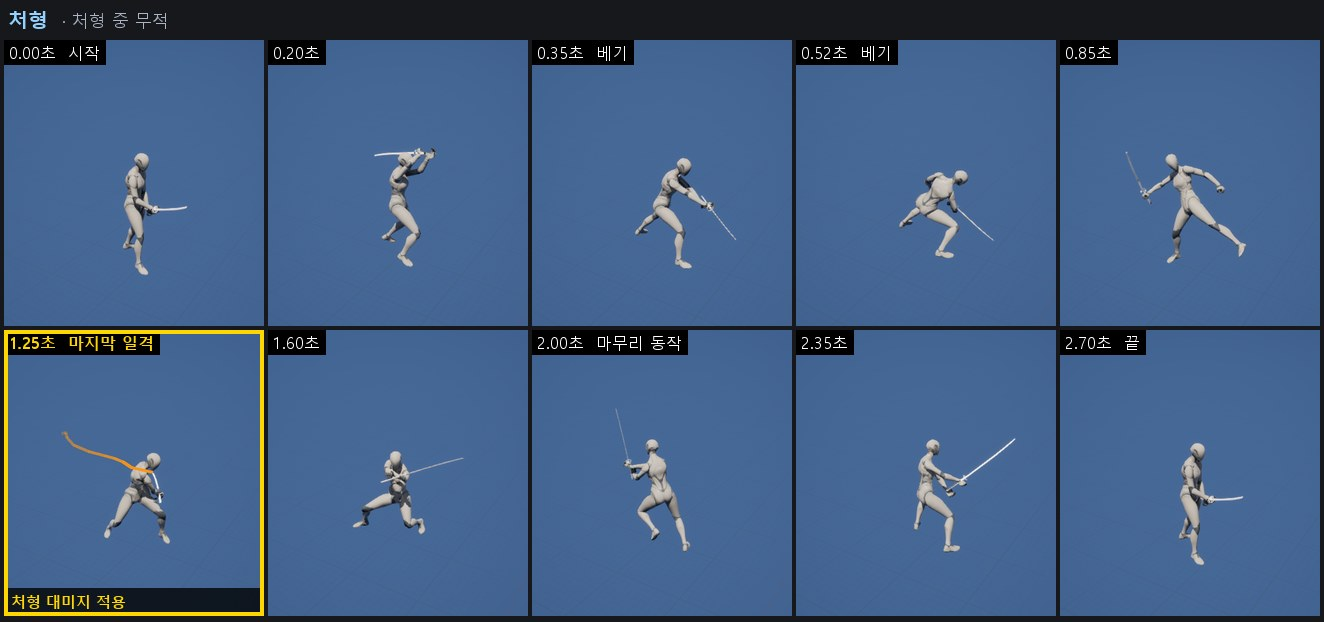
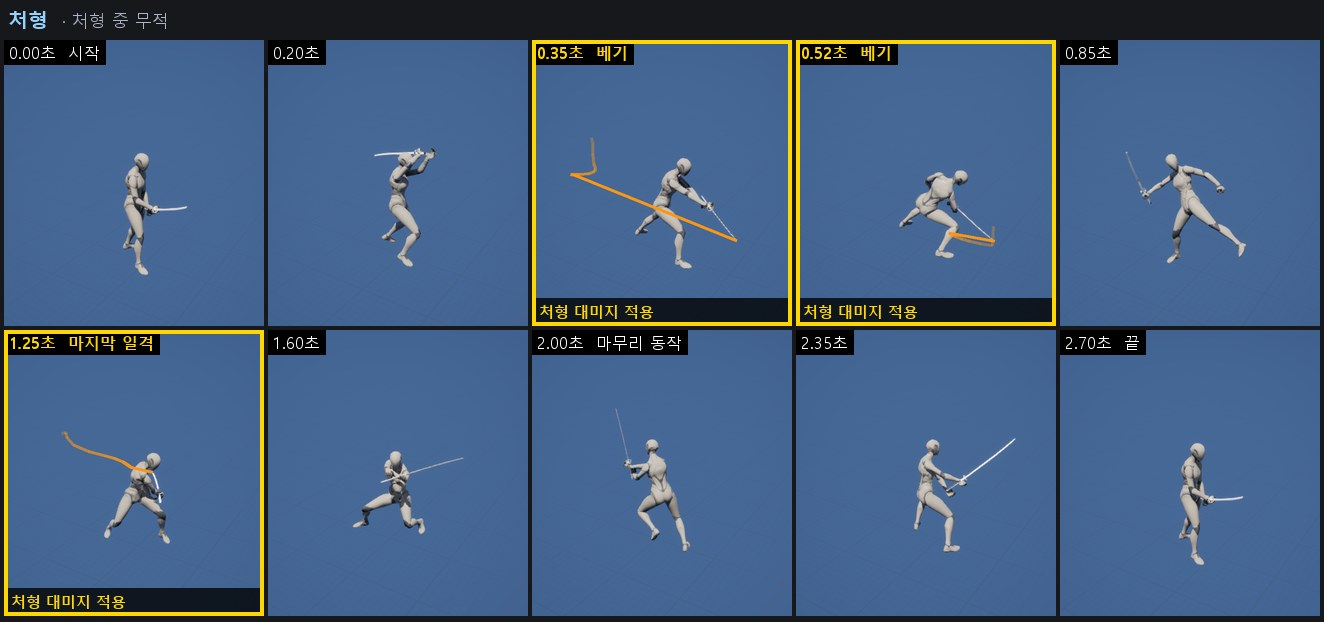
폴리싱 21: 처형 대미지를 타격마다 적용 (플레이어 사양 '처형', 카메라 '상황별 단계')
- 기획서
  - 플레이어 사양 '처형': 대미지를 마지막 일격에 몰아 넣지 않고 베기 2번(각 3.0)과 마지막
    일격(9.0)에서 각각 적용합니다. 배율 합계 15.0은 그대로입니다.
  - 카메라 '상황별 단계': 처형의 베기는 작음, 마지막 일격은 그대로 큼.
  - 처형·처형 피격 그림: 베기 칸도 타격 칸으로 표시했습니다. 처형 피격에는 두 번째 베기(0.52초)
    칸을 넣고 이름 없는 1.90초 칸을 뺐습니다. 처형 사망 줄의 'HP 0 이하'는 줄 제목 옆 설명으로
    옮겼습니다.
- 구현
  - AM_Player_Execute: 베기 두 번(0.35·0.52초)에 타격 이벤트 노티파이를 더해, 마지막 일격
    (1.25초)까지 세 번 이벤트가 옵니다.
  - 처형 어빌리티: 타격 이벤트마다 처형 데이터의 다음 타를 적용합니다(대미지 숫자, 피격 이펙트,
    셰이크). 마지막 타에서 후딜을 시작합니다. 앞 타격에서 보스가 죽으면 이후 타격은 대미지 없이
    지나갑니다.
  - DA_Player.Execution: 3.0 / 3.0 / 9.0. DA_Camera에 ExecutionSlashShake(작음)를 추가했습니다.
  - 구현 계획서: 노티파이로 표시하는 처형 시점을 마지막 일격에서 처형 타격(베기 2번, 마지막 일격)으로
    바꾸고, 처형 대미지는 타격 노티파이마다 처형 대상에게 바로 적용합니다.
- PIE 확인:
  - 일반 처형: 보스 HP가 150 / 150 / 450(합계 750, 이전과 같음) 줄고, 셰이크는 작음 / 작음 /
    큼입니다. 타격 간격은 0.175초·0.73초이고, 후딜은 마지막 일격 뒤에 시작됩니다.
  - HP 100에서 처형: 첫 베기에서 HP 0이 되어 처형 사망 모션 뒤 래그돌이 되고, 후딜은 그대로
    마지막 일격 뒤에 시작됩니다.

diff --git a/Source/Ag/AbilitySystem/Abilities/AgAbility_Execution.cpp b/Source/Ag/AbilitySystem/Abilities/AgAbility_Execution.cpp
@@ -54,7 +54,7 @@ void UAgAbility_Execution::ActivateAbility(const FGameplayAbilitySpecHandle Hand
 		return;
 	}
 	Target = Boss;
-	bBlowLanded = false;
+	StrikeIndex = 0;
 
 	BeginBusy();
 	SetExecuting(true);
@@ -71,9 +71,9 @@ void UAgAbility_Execution::ActivateAbility(const FGameplayAbilitySpecHandle Hand
 	// The player moves to the boss's front, to the gap where the two motions line up. No stop distance applies.
 	Player->StartApproach(Boss, Data->ExecutionDistance, 0.f, 0.f, /*bFaceTarget*/ true, /*bExactGap*/ true);
 
-	UAbilityTask_WaitGameplayEvent* BlowTask = UAbilityTask_WaitGameplayEvent::WaitGameplayEvent(this, AgGameplayTags::Event_ExecutionBlow);
-	BlowTask->EventReceived.AddDynamic(this, &ThisClass::HandleFinalBlow);
-	BlowTask->ReadyForActivation();
+	UAbilityTask_WaitGameplayEvent* StrikeTask = UAbilityTask_WaitGameplayEvent::WaitGameplayEvent(this, AgGameplayTags::Event_ExecutionBlow);
+	StrikeTask->EventReceived.AddDynamic(this, &ThisClass::HandleStrike);
+	StrikeTask->ReadyForActivation();
 
 	UAbilityTask_PlayMontageAndWait* MontageTask = UAbilityTask_PlayMontageAndWait::CreatePlayMontageAndWaitProxy(this, NAME_None, Data->ExecutionMontage);
 	MontageTask->OnCompleted.AddDynamic(this, &ThisClass::HandleMontageFinished);
@@ -99,44 +99,51 @@ void UAgAbility_Execution::SetExecuting(bool bNewExecuting)
 	}
 }
 
-void UAgAbility_Execution::HandleFinalBlow(FGameplayEventData Payload)
+void UAgAbility_Execution::HandleStrike(FGameplayEventData Payload)
 {
 	AAgCharacterBase* Player = GetAgCharacter();
 	AAgBossCharacter* Boss = Target.Get();
 	const UAgPlayerData* Data = GetCharacterData<UAgPlayerData>();
-	if (bBlowLanded || !Player || !Boss || !Data || Boss->IsDead())
+	if (!Player || !Data || !Data->Execution.Hits.IsValidIndex(StrikeIndex))
 	{
 		return;
 	}
-	bBlowLanded = true;
+	const FAgAttackHit& Hit = Data->Execution.Hits[StrikeIndex];
+	++StrikeIndex;
+	const bool bFinalBlow = StrikeIndex == Data->Execution.Hits.Num();
 
-	// The damage lands once on the executed boss, without hitstop.
-	const FAgAttackHit& Hit = Data->Execution.Hits[0];
-	const int32 HPDamage = UAgCombatLibrary::CalculateHPDamage(Player->GetAttributeSet()->GetATK(), Hit.DamageMultiplier, Boss->GetAttributeSet()->GetDEF());
-	UAgCombatLibrary::ApplyStatChange(Player, Boss, -HPDamage, 0.f);
-	Boss->ShowDamageNumber(HPDamage, Boss->GetActorLocation(), Hit.bLargeDamageNumber);
-	FGameplayCueParameters EffectParameters;
-	EffectParameters.Location = Boss->GetActorLocation();
-	Boss->GetAbilitySystemComponent()->ExecuteGameplayCue(AgGameplayTags::GameplayCue_Hit, EffectParameters);
-	if (const UAgCameraData* Camera = UAgCombatLibrary::GetCameraData())
+	// Each strike lands on the executed boss, without hitstop. A boss already killed by an earlier strike takes no more.
+	if (Boss && !Boss->IsDead() && Boss->GetAttributeSet()->GetHP() > 0.f)
 	{
-		UAgCombatLibrary::PlayCameraShake(Player, Camera->ExecutionBlowShake);
-	}
-	UE_LOG(LogAg, Verbose, TEXT("Execution blow: HP -%d (now %.0f)"), HPDamage, Boss->GetAttributeSet()->GetHP());
-	if (Boss->GetAttributeSet()->GetHP() <= 0.f)
-	{
-		FGameplayEventData DeathPayload;
-		DeathPayload.EventTag = AgGameplayTags::Event_Death;
-		DeathPayload.Instigator = Player;
-		DeathPayload.Target = Boss;
-		DeathPayload.InstigatorTags.AddTag(AgGameplayTags::Ability_Action_Execution);
-		UAbilitySystemBlueprintLibrary::SendGameplayEventToActor(Boss, AgGameplayTags::Event_Death, DeathPayload);
+		const int32 HPDamage = UAgCombatLibrary::CalculateHPDamage(Player->GetAttributeSet()->GetATK(), Hit.DamageMultiplier, Boss->GetAttributeSet()->GetDEF());
+		UAgCombatLibrary::ApplyStatChange(Player, Boss, -HPDamage, 0.f);
+		Boss->ShowDamageNumber(HPDamage, Boss->GetActorLocation(), Hit.bLargeDamageNumber);
+		FGameplayCueParameters EffectParameters;
+		EffectParameters.Location = Boss->GetActorLocation();
+		Boss->GetAbilitySystemComponent()->ExecuteGameplayCue(AgGameplayTags::GameplayCue_Hit, EffectParameters);
+		if (const UAgCameraData* Camera = UAgCombatLibrary::GetCameraData())
+		{
+			UAgCombatLibrary::PlayCameraShake(Player, bFinalBlow ? Camera->ExecutionBlowShake : Camera->ExecutionSlashShake);
+		}
+		UE_LOG(LogAg, Verbose, TEXT("Execution strike %d: HP -%d (now %.0f)"), StrikeIndex, HPDamage, Boss->GetAttributeSet()->GetHP());
+		if (Boss->GetAttributeSet()->GetHP() <= 0.f)
+		{
+			FGameplayEventData DeathPayload;
+			DeathPayload.EventTag = AgGameplayTags::Event_Death;
+			DeathPayload.Instigator = Player;
+			DeathPayload.Target = Boss;
+			DeathPayload.InstigatorTags.AddTag(AgGameplayTags::Ability_Action_Execution);
+			UAbilitySystemBlueprintLibrary::SendGameplayEventToActor(Boss, AgGameplayTags::Event_Death, DeathPayload);
+		}
 	}
 
-	// 후딜: after the final blow the player can cancel; the boss's motion plays on either way.
-	Player->StopApproach();
-	SetExecuting(false);
-	EndBusy();
+	if (bFinalBlow)
+	{
+		// 후딜: after the final blow the player can cancel; the boss's motion plays on either way.
+		Player->StopApproach();
+		SetExecuting(false);
+		EndBusy();
+	}
 }
 
 void UAgAbility_Execution::HandleMontageFinished()

diff --git a/Source/Ag/AbilitySystem/Abilities/AgAbility_Execution.h b/Source/Ag/AbilitySystem/Abilities/AgAbility_Execution.h
@@ -12,8 +12,9 @@ class AAgPlayerCharacter;
 /**
  * 처형 (플레이어 사양 '처형'): a finishing move on a groggy boss within the 처형 타겟팅 범위, once per groggy.
  * The boss turns to the player and plays its 처형 피격 motion while the player closes in to the boss's front with
- * Motion Warping. The player is invincible until the execution ends or is cancelled. The final blow applies the damage
- * once, without hitstop, and the recovery (후딜) starts after it.
+ * Motion Warping. The player is invincible until the execution ends or is cancelled. Each strike of the motion (the two
+ * slashes and the final blow, one Execution hit each) applies its damage without hitstop, and the recovery (후딜) starts
+ * after the final blow.
  */
 UCLASS()
 class UAgAbility_Execution : public UAgGameplayAbility
@@ -35,7 +36,7 @@ private:
 	void SetExecuting(bool bNewExecuting);
 
 	UFUNCTION()
-	void HandleFinalBlow(FGameplayEventData Payload);
+	void HandleStrike(FGameplayEventData Payload);
 
 	UFUNCTION()
 	void HandleMontageFinished();
@@ -46,5 +47,7 @@ private:
 	TWeakObjectPtr<AAgBossCharacter> Target;
 	bool bExecuting = false;
 	bool bInvincible = false;
-	bool bBlowLanded = false;
+
+	/** Strikes so far in this execution; the last Execution hit is the final blow. */
+	int32 StrikeIndex = 0;
 };

diff --git a/Source/Ag/Core/AgGameplayTags.cpp b/Source/Ag/Core/AgGameplayTags.cpp
@@ -78,7 +78,7 @@ namespace AgGameplayTags
 	UE_DEFINE_GAMEPLAY_TAG_COMMENT(Event_AttackWindowEnded, "Event.AttackWindowEnded", "판정 구간이 끝남. EventMagnitude는 몇 번째 타인지 (0부터)");
 	UE_DEFINE_GAMEPLAY_TAG_COMMENT(Event_DownGrounded, "Event.DownGrounded", "다운 모션에서 바닥에 쓰러진 순간 (무적 시작)");
 	UE_DEFINE_GAMEPLAY_TAG_COMMENT(Event_RecoveryStarted, "Event.RecoveryStarted", "모션의 후딜이 시작됨 (판정 구간이 없는 행동: 패리 모션)");
-	UE_DEFINE_GAMEPLAY_TAG_COMMENT(Event_ExecutionBlow, "Event.ExecutionBlow", "처형 모션의 마지막 일격 (대미지 적용)");
+	UE_DEFINE_GAMEPLAY_TAG_COMMENT(Event_ExecutionBlow, "Event.ExecutionBlow", "처형 모션의 타격: 베기 2번과 마지막 일격 (대미지 적용)");
 	UE_DEFINE_GAMEPLAY_TAG_COMMENT(Event_Boss_DashStart, "Event.Boss.DashStart", "A3 찌르기 모션에서 몸을 앞으로 내던지는 순간 (돌진 시작)");
 	UE_DEFINE_GAMEPLAY_TAG_COMMENT(Event_Boss_DashHold, "Event.Boss.DashHold", "A3 창을 다 내지른 자세 (돌진이 끝날 때까지 유지)");
 	UE_DEFINE_GAMEPLAY_TAG_COMMENT(Event_Boss_SwordWave, "Event.Boss.SwordWave", "A6 검기 발사 (판정 구간으로 봄)");

diff --git a/Source/Ag/Data/AgCameraData.h b/Source/Ag/Data/AgCameraData.h
@@ -91,6 +91,10 @@ public:
 	UPROPERTY(EditDefaultsOnly, Category = "Camera Shake")
 	EAgCameraShake GuardBreakShake = EAgCameraShake::None;
 
+	/** 상황별 단계: 처형의 베기 */
+	UPROPERTY(EditDefaultsOnly, Category = "Camera Shake")
+	EAgCameraShake ExecutionSlashShake = EAgCameraShake::None;
+
 	/** 상황별 단계: 처형의 마지막 일격 */
 	UPROPERTY(EditDefaultsOnly, Category = "Camera Shake")
 	EAgCameraShake ExecutionBlowShake = EAgCameraShake::None;

diff --git a/Docs/Program/마일스톤1 구현 계획.md b/Docs/Program/마일스톤1 구현 계획.md
@@ -64,7 +64,7 @@
 | 점프 | 점프 시작과 착지는 몽타주로 재생하고, 공중에서는 Airborne을 반복 재생합니다. 이동 입력이 있으면 시작·착지 몽타주를 생략하고 Airborne만 보입니다. 착지 몽타주가 끝나기 전에 이동하면 착지 몽타주를 멈춥니다. 점프 높이와 공중 제어는 캐릭터 무브먼트의 엔진 기본값이 기획서 값과 같아 그대로 씁니다. | 시작과 착지를 C++에서 몽타주로 재생하므로 애님 그래프에는 공중 여부 전환 하나만 늘어납니다. 두 모션은 제자리 모션이라 움직이면서 재생하면 미끄러져 보이고, 루트 모션이 켜져 있어 재생하는 동안에는 이동 입력이 먹히지 않습니다. |
 | 달리기 | 회피 모션이 끊기지 않고 끝날 때 Shift와 이동 입력이 남아 있고 가드 키를 누르지 않았으면 달리기 어빌리티를 시작합니다. '달리는 중' 태그가 속도와 방향(락온 중에도 이동 방향)을 바꾸고, SP 소모는 이 태그가 있을 때만 도는 주기 GameplayEffect가 맡습니다. Shift를 떼거나 이동 입력이 없거나 SP가 0이 되면 플레이어 캐릭터가 달리기를 취소합니다. 다른 행동은 달리기를 취소하지만 점프는 취소하지 않습니다. | 리젠과 같은 방식(태그 조건의 주기 GameplayEffect)이라 자원 변화가 모두 GameplayEffect로 모입니다. |
 | 몽타주 | 행동마다 하나를 둡니다. 이어지는 모션은 조사 문서의 연결 시점에서 잘라 한 몽타주에 붙입니다. 평타는 타마다 따로 둡니다. 대기 자세에서 바로 시작하지 않는 모션(A2, A6, 회피 반격)은 블렌드로 잇습니다. 다운은 쓰러짐과 기상을 두 몽타주로 나눠 블렌드로 잇습니다. 블렌드로 잇는 몽타주는 끝까지 재생한 뒤 다음 몽타주로 넘어가도록 블렌드 아웃을 모션 끝에서 시작합니다. 가드 시작 모션(Guard_Start)은 따로 재생하지 않고 ABP의 가드 전환 블렌드로 대신합니다. | 평타는 타마다 별도 행동입니다. 다운의 두 모션은 누운 자세가 조금 어긋납니다. 가드 시작 모션은 아주 짧아(0.12초) 자세가 갑자기 바뀌어 보이므로, 그보다 긴 블렌드로 부드럽게 바꿉니다. |
-| 모션을 따르는 구간 | 판정 구간(몇 번째 타인지 포함), 처형 마지막 일격, 다운 무적 시작, A3 돌진 시작·자세 유지, A6 검기 발사는 몽타주 노티파이로 표시합니다. 판정 구간 외의 시점은 게임플레이 이벤트를 보내는 노티파이 하나로 표시하고, 이벤트 태그로 구분합니다. 연속 공격의 후딜 시작은 마지막 판정 구간의 끝으로 정합니다. | 시점마다 노티파이 클래스를 만들지 않고, 어빌리티가 이벤트를 기다립니다. |
+| 모션을 따르는 구간 | 판정 구간(몇 번째 타인지 포함), 처형 타격(베기 2번, 마지막 일격), 다운 무적 시작, A3 돌진 시작·자세 유지, A6 검기 발사는 몽타주 노티파이로 표시합니다. 판정 구간 외의 시점은 게임플레이 이벤트를 보내는 노티파이 하나로 표시하고, 이벤트 태그로 구분합니다. 연속 공격의 후딜 시작은 마지막 판정 구간의 끝으로 정합니다. | 시점마다 노티파이 클래스를 만들지 않고, 어빌리티가 이벤트를 기다립니다. |
 | 기획서에 초로 적힌 구간 | 회피 무적·극한 회피 구간·후딜 시작, 붉은 섬광, 예고 섬광, 회전 정지 같은 수치는 캐릭터 데이터에 두고, 코드가 몽타주 재생 위치로 판정합니다. 붉은 섬광, 예고 섬광, 회전 정지는 판정 구간 노티파이 위치(A6은 검기 발사 노티파이, A4 예고 섬광은 체공 시간)에서 거꾸로 계산합니다. 패리 구간, 회피 반격 기회, 쿨다운, 그로기 지속 시간처럼 히트스톱 중에도 흐르는 시간은 타이머로 셉니다. | 히트스톱으로 몽타주가 멈추면 구간도 함께 멈추고, 보스의 재생 속도 배율도 자동으로 반영됩니다. |
 | 공격 보정 | Motion Warping을 씁니다. 타겟팅 범위 안의 보스를 TargetingSystem으로 찾아, 플레이어 사양 '공격 중 이동'의 접근 목표를 선딜 동안 매 프레임 갱신하고 판정 구간 시작에 고정합니다. | |
 | 처형 | Motion Warping으로 보스 정면에 붙습니다. 두 모션이 맞물리는 간격은 두 모션의 원래 배치를 모션 데이터에서 재어 데이터에 둡니다. 처형 피격 중에는 보스 캡슐이 플레이어를 막지 않습니다. | 순간이동하지 않습니다. 두 모션은 캡슐 반지름보다 가깝게 붙습니다. |
@@ -82,7 +82,7 @@
 | 항목 | 결정 | 이유 |
 | - | - | - |
 | 공격 판정 | 근접 공격은 판정 구간 동안 무기 날을 따라 이전 프레임 위치에서 현재 위치까지 스윕하고, 프레임 사이를 잘게 나눠 검사합니다. 나눈 위치는 캐릭터 축을 중심으로 한 호를 따라 잡습니다. 맞는 대상은 상대 캐릭터 메시의 피직스 바디입니다. 판정 구간 하나가 1타이고, 이미 맞은 대상은 기록해 다시 맞지 않게 합니다. | 할버드에는 한 프레임에 크게 움직이는 스미어 프레임이 있습니다. 휩쓸기(A2)는 한 프레임에 크게 돌아, 직선으로 나누면 옆에 선 상대를 지나칩니다. |
-| 패턴별 공격 판정 | A3는 돌진하는 동안 할버드 날을 스윕합니다. A4는 착지하는 순간 착지 지점 범위(보스 사양 A4)를 구로 한 번 검사합니다. A6 검기는 보스 사양 A6의 크기만큼 충돌 상자를 가진 투사체 액터로, 매 프레임 그 프레임에 지나간 구간을 상자로 쓸어 처음 닿은 상대를 한 번 피격 처리하고, 결과와 관계없이 그 상대를 뚫고 계속 날아갑니다(그 상대는 다시 판정하지 않음). 벽은 상자 가운데 높이의 선으로 검사합니다. 처형은 마지막 일격 노티파이에서 처형 대상에게 바로 적용합니다. | 검기 한 발이 같은 상대를 여러 번 때리지 않고, 긴 프레임에도 상대를 건너뛰지 않습니다. 선은 바닥에 닿지 않아, 바닥을 벽으로 잘못 보지 않습니다. |
+| 패턴별 공격 판정 | A3는 돌진하는 동안 할버드 날을 스윕합니다. A4는 착지하는 순간 착지 지점 범위(보스 사양 A4)를 구로 한 번 검사합니다. A6 검기는 보스 사양 A6의 크기만큼 충돌 상자를 가진 투사체 액터로, 매 프레임 그 프레임에 지나간 구간을 상자로 쓸어 처음 닿은 상대를 한 번 피격 처리하고, 결과와 관계없이 그 상대를 뚫고 계속 날아갑니다(그 상대는 다시 판정하지 않음). 벽은 상자 가운데 높이의 선으로 검사합니다. 처형은 타격 노티파이(베기 2번, 마지막 일격)마다 처형 대상에게 바로 적용합니다. | 검기 한 발이 같은 상대를 여러 번 때리지 않고, 긴 프레임에도 상대를 건너뛰지 않습니다. 선은 바닥에 닿지 않아, 바닥을 벽으로 잘못 보지 않습니다. |
 | 피격 처리 | 피격 처리 순서를 따르는 C++ 함수 하나가 판정하고, HP·PP·SP 변화와 MP·UP 충전은 GameplayEffect로 적용합니다. 넉백, 다운, 가드 밀림, 가드 브레이크, 그로기, 사망은 이벤트로 상태 어빌리티를 발동하고, 움찔은 덧입힘 몽타주만 재생합니다. 대미지 GameplayEffect는 C++ 클래스로 둡니다. | 대미지 GameplayEffect는 변화량을 모두 SetByCaller로 받아 에셋에 담을 데이터가 없습니다. |
 | 연출 | 이펙트(피격, 패리, 붉은 섬광, 예고 섬광)와 카메라 셰이크는 GameplayCue로 재생합니다. 붉은 섬광과 예고 섬광은 같은 이펙트를 큐마다 다른 색(이펙트의 색 사용자 파라미터)으로 재생합니다. 셰이크 큐는 로컬 플레이어의 카메라에서 재생하고, 상황별 단계는 `DA_Camera`에, 궁극기 마지막 일격이라는 표시는 그 타의 공격 데이터에 둡니다. 투사체 공격은 투사체를 반응의 기준으로 넘겨, 넉백 방향은 투사체 위치에서 정합니다. | 연출과 게임 로직을 나눕니다. |
 | 태그 | 상태, 입력, 이벤트, 쿨다운, 공격 ID, GameplayCue 태그를 모두 `AgGameplayTags`에 네이티브로 선언합니다. | AGENTS.md 코딩 규칙 |
@@ -157,7 +157,7 @@
 | `UAgSettings` | `UDeveloperSettings` | 공통 데이터 에셋을 가리키는 프로젝트 설정. 공통 데이터 에셋은 처음 쓸 때 로드해 계속 들고 있습니다(소프트 참조뿐이라 패키징 빌드에서는 GC마다 해제됨). |
 | `UAgAnimInstance` | `UAnimInstance` | `ABP_Ag`의 값 계산(속도, 방향, 가드 여부, 공중 여부) |
 | `UAgAnimNotifyState_AttackWindow` | `UAnimNotifyState` | 판정 구간. 몇 번째 타인지 지정합니다. |
-| `UAgAnimNotify_GameplayEvent` | `UAnimNotify` | 모션을 따르는 시점(처형 마지막 일격, 다운 무적 시작, A3 돌진 시작·자세 유지, A6 검기 발사)에 게임플레이 이벤트를 보냅니다. |
+| `UAgAnimNotify_GameplayEvent` | `UAnimNotify` | 모션을 따르는 시점(처형 타격, 다운 무적 시작, A3 돌진 시작·자세 유지, A6 검기 발사)에 게임플레이 이벤트를 보냅니다. |
 | `UAgGameplayEffect_Damage` | `UGameplayEffect` | 대미지. HP·PP 변화량을 SetByCaller로 받습니다. |
 | `UAgGameplayEffect_Resource` | `UGameplayEffect` | SP·MP·UP 변화(비용, 충전, 가드 SP 소모, 극한 회피 반환). 변화량을 SetByCaller로 받습니다. |
 | `UAgGameplayEffect_TimedTag` | `UGameplayEffect` | 적용할 때 정한 시간 동안 태그를 줍니다(쿨다운, 리젠 대기, 패리 구간). |
@@ -319,7 +319,7 @@
 | 전투 시스템 '그로기': 지속 시간 | `DA_CombatRules` | `GroggyDuration` |
 | Samurai 애니메이션 조사 '행동별 모션': 회피, 가드 움찔·가드 밀림·가드 브레이크, 패리, 스킬, 궁극기, 처형 | `DA_Player` (`AM_Player_Roll`, `AM_Player_Backstep`, `AM_GuardFlinch`, `AM_Player_GuardPushback`, `AM_Player_GuardBreak`, `AM_Player_Parry`, `AM_Player_Skill`, `AM_Player_Ultimate`, `AM_Player_Execute`) | `RollMontage`, `BackstepMontage`, `GuardFlinchMontage`, `GuardPushbackMontage`, `GuardBreakMontage`, `ParryMontage`, `SkillMontage`, `UltimateMontages`, `ExecutionMontage` |
 | 할버드 애니메이션 조사 '보스 모션': 그로기, 처형 피격, 처형 사망 | `DA_Boss` (`AM_Boss_Groggy`, `AM_Boss_Executed`, `AM_Boss_ExecutedDeath`) | `GroggyMontage`, `ExecutedMontage`, `ExecutedDeathMontage` |
-| Samurai 애니메이션 조사 '가드·패리', '처형': 패리 모션의 후딜 시작, 처형 마지막 일격 | `AM_Player_Parry`, `AM_Player_Execute` | 게임플레이 이벤트 노티파이 |
+| Samurai 애니메이션 조사 '가드·패리', '처형': 패리 모션의 후딜 시작, 처형 타격(베기 2번, 마지막 일격) | `AM_Player_Parry`, `AM_Player_Execute` | 게임플레이 이벤트 노티파이 |
 | 구현 값(기획서에 수치 없음): 리젠을 나눠 적용하는 간격 | `DA_CombatRules` | `RegenTickInterval` |
 | 구현 값(기획서에 수치 없음): 처형 두 모션이 맞물리는 간격 | `DA_Player` | `ExecutionDistance` |
 | 보스 사양 '페이즈', '2페이즈 변화': 2페이즈 HP 구간, 패턴 진행 속도, MOV | `DA_Boss` | `Phase2HPRatio`, `Phase2PatternSpeed`, `Phase2MOVMultiplier` |

diff --git a/Docs/Design/플레이어 사양.md b/Docs/Design/플레이어 사양.md
@@ -382,13 +382,13 @@ R 키로 사용하는, UP를 모두 소모하는 강력한 공격입니다.
 
 | 대미지 배율 | PP 배율 | 피격 반응 |
 | - | - | - |
-| 15.0 | 0 | 없음 |
+| 베기 2번 각 3.0, 마지막 일격 9.0 | 0 | 없음 |
 
 ![처형 모션](<Attachments/플레이어 모션 처형.jpg>)
 
 모션: `ARPG_Samurai_Anim_UE_Execute`
 
-- 처형 대미지는 처형 모션의 마지막 일격에서 한 번 적용합니다.
+- 처형 대미지는 처형 모션의 베기 2번과 마지막 일격에서 각각 적용합니다.
 - 처형 중 플레이어는 무적입니다.
 - 처형의 후딜은 마지막 일격을 마친 뒤의 구간입니다. 모션 캔슬하면 플레이어의 처형과 처형 무적은 끝나지만, 보스의 처형 피격·사망 모션은 계속 재생합니다.
 - 플레이어의 처형 종료나 모션 캔슬과 관계없이, 보스의 그로기 종료는 [전투 시스템](<전투 시스템.md>)의 '그로기' 규칙을 따릅니다. 처형 대미지로 보스의 HP가 0 이하가 되면 보스 사망 연출로 이어집니다.

diff --git a/Docs/Design/카메라.md b/Docs/Design/카메라.md
@@ -88,6 +88,7 @@ flowchart LR
 | 가드로 막음 (가드 움찔) | 작음 |
 | 가드로 막음 (가드 밀림) | 보통 |
 | 가드 브레이크 | 큼 |
+| 처형의 베기 | 작음 |
 | 처형의 마지막 일격 | 큼 |
 | 궁극기의 마지막 일격 | 큼 |
 | 보스 A4 착지 (보스와의 캡슐 중심 사이 수평 거리가 15m 이내일 때) | 보통 |
